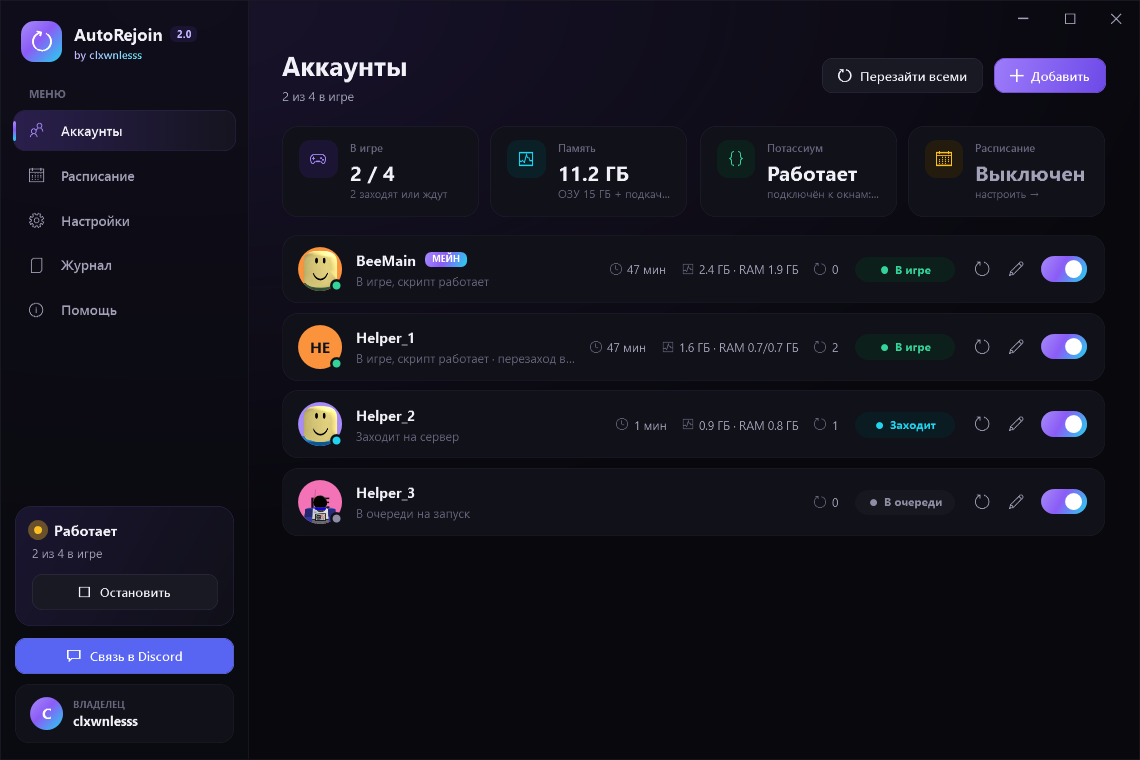
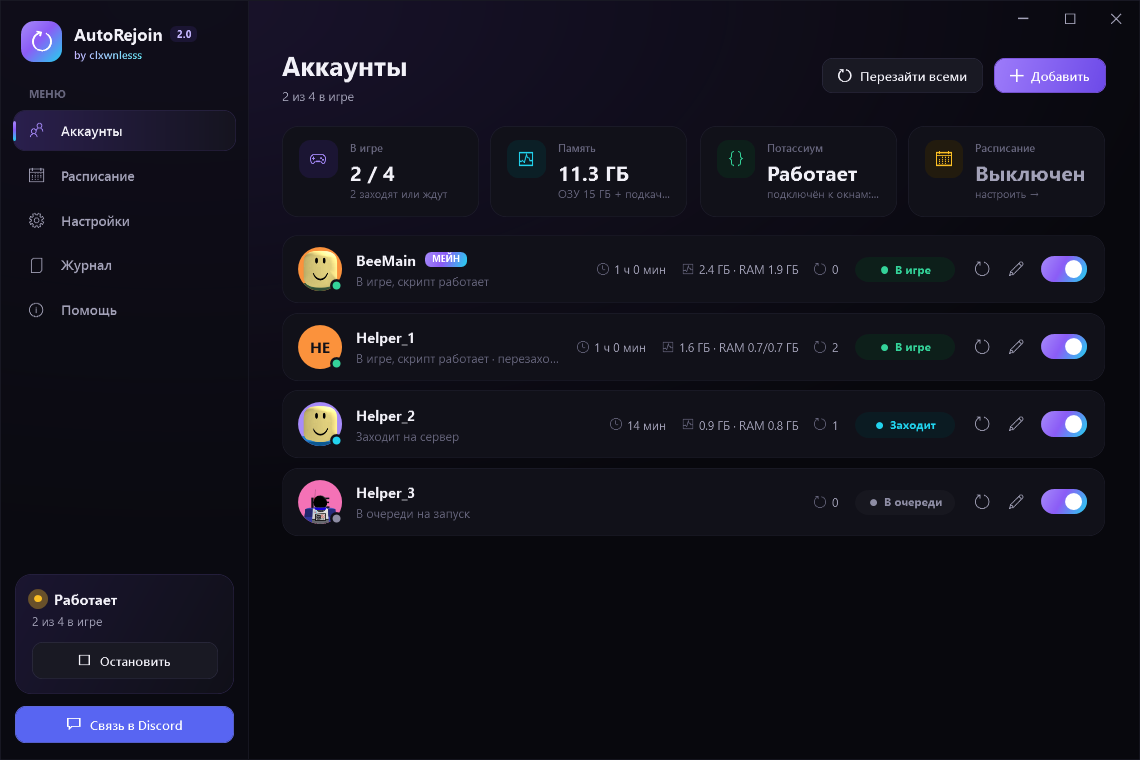
AutoRejoin 2.0.1: remove owner card from sidebar and settings

diff --git a/AutoRejoinApp.MainWindow.xaml b/AutoRejoinApp.MainWindow.xaml
@@ -81,25 +81,8 @@
                             </StackPanel>
                         </Grid>
 
-                        <!-- владелец и связь -->
-                        <Border DockPanel.Dock="Bottom" Margin="14,0,14,16" Padding="14,12" CornerRadius="14"
-                                Background="{StaticResource CardBg}" BorderBrush="{StaticResource Line}" BorderThickness="1">
-                            <Grid>
-                                <Grid.ColumnDefinitions>
-                                    <ColumnDefinition Width="Auto"/>
-                                    <ColumnDefinition Width="*"/>
-                                </Grid.ColumnDefinitions>
-                                <Grid Width="34" Height="34">
-                                    <Ellipse Fill="{StaticResource BrandGradient}"/>
-                                    <TextBlock Text="C" FontWeight="Bold" FontSize="15" Foreground="#FFFFFF" HorizontalAlignment="Center" VerticalAlignment="Center"/>
-                                </Grid>
-                                <StackPanel Grid.Column="1" Margin="10,0,0,0" VerticalAlignment="Center">
-                                    <TextBlock Text="ВЛАДЕЛЕЦ" Foreground="{StaticResource Text3}" FontSize="9.5" FontWeight="Bold"/>
-                                    <TextBlock Text="clxwnlesss" FontWeight="Bold" FontSize="13.5" Margin="0,1,0,0"/>
-                                </StackPanel>
-                            </Grid>
-                        </Border>
-                        <Button x:Name="ContactButton" DockPanel.Dock="Bottom" Style="{StaticResource BtnDiscord}" Margin="14,0,14,10" Padding="12,10"
+                        <!-- связь -->
+                        <Button x:Name="ContactButton" DockPanel.Dock="Bottom" Style="{StaticResource BtnDiscord}" Margin="14,0,14,16" Padding="12,10"
                                 ToolTip="Discord: clxwnlesss — открыть профиль (ник скопируется)">
                             <StackPanel Orientation="Horizontal" HorizontalAlignment="Center">
                                 <TextBlock Text="&#xE8BD;" Style="{StaticResource Glyph}" FontSize="13"/>

diff --git a/AutoRejoinApp/SettingsPage.cs b/AutoRejoinApp/SettingsPage.cs
@@ -482,12 +482,6 @@ public class SettingsPage
 	private void BuildData()
 	{
 		StackPanel section = Section("\ue8b7", "Данные");
-		Button contact = Button("Связь в Discord", delegate
-		{
-			Owner.OpenDiscord();
-		});
-		contact.Style = Res("BtnDiscord");
-		AddRow(section, "Владелец: " + Owner.Name, "Вопросы и баги — в Discord.", contact);
 		AddRow(section, "Папка данных", "Никому не отправляй. " + AppPaths.DataDir, Button("Открыть", delegate
 		{
 			SystemTools.OpenFolder(AppPaths.DataDir);

diff --git a/Properties/AssemblyInfo.cs b/Properties/AssemblyInfo.cs
@@ -4,8 +4,8 @@ using System.Runtime.Versioning;
 
 [assembly: AssemblyProduct("AutoRejoin")]
 [assembly: AssemblyCopyright("clxwnlesss (Даниил Арзамасов)")]
-[assembly: AssemblyFileVersion("2.0.0.0")]
+[assembly: AssemblyFileVersion("2.0.1.0")]
 [assembly: AssemblyCompany("clxwnlesss")]
 [assembly: AssemblyDescription("Держит аккаунты Роблокса в игре и перезаходит сам")]
 [assembly: AssemblyTitle("AutoRejoin")]
-[assembly: AssemblyVersion("2.0.0.0")]
+[assembly: AssemblyVersion("2.0.1.0")]
